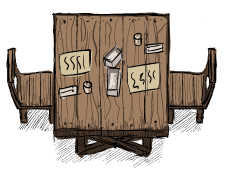
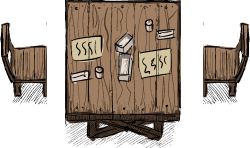
table bigger

diff --git a/core/src/com/raccoon/mygame/controllers/RestaurantController.java b/core/src/com/raccoon/mygame/controllers/RestaurantController.java
@@ -334,12 +334,12 @@ public class RestaurantController extends WorldController implements ContactList
         score = 0;
 
         tables = new Array();
-        addTable(17.5f, 12f, false);
-        addTable(17.5f, 4f, true);
-        addTable(10.25f, 12f, true);
-        addTable(10.25f, 4f, false);
+        addTable(17f, 12f, false);
+        addTable(18f, 4f, true);
+        addTable(10f, 12f, true);
+        addTable(11f, 4f, false);
         //addTable(3f, 12f, false);
-        addTable(3f, 4f, true);
+        addTable(4f, 4f, true);
 
 
         //System.out.println(tables.size);
@@ -770,11 +770,11 @@ public class RestaurantController extends WorldController implements ContactList
         canvas.draw(light,Color.WHITE, 0, 0,
                 0, 5f*40, 0.0f, 1f, 1f);
 
-        if(trash.interactingTrash){
-            float midpoint = (float)canvas.getWidth()/2- (float)singleInv.getWidth()/2;
-            canvas.draw(singleInv, Color.WHITE, 10, 10,
-                    midpoint, 90, 0.0f, 1, 1);
-        }
+//        if(trash.interactingTrash){
+//            float midpoint = (float)canvas.getWidth()/2- (float)singleInv.getWidth()/2;
+//            canvas.draw(singleInv, Color.WHITE, 10, 10,
+//                    midpoint, 90, 0.0f, 1, 1);
+//        }
         t.draw(20, 700);
         drawOutline();
         drawReq();

diff --git a/core/src/com/raccoon/mygame/objects/TableObstacle.java b/core/src/com/raccoon/mygame/objects/TableObstacle.java
@@ -35,10 +35,10 @@ public class TableObstacle extends NormalObstacle {
         // to the "chair" position which the animal will move towards to sit down
         if (index == 1) {
             occupation[1] = true;
-            return new Vector2((float) (this.getX() + 1.85), (float) (this.getY() - 0.8));
+            return new Vector2((float) (this.getX() + 2.4), (float) (this.getY() - 0.6));
         } else if (index == 0) {
             occupation[0] = true;
-            return new Vector2((float) (this.getX() - 1.85), (float) (this.getY() - 0.8));
+            return new Vector2((float) (this.getX() - 2.4), (float) (this.getY() - 0.6));
         }
         return this.getPosition();
     }
